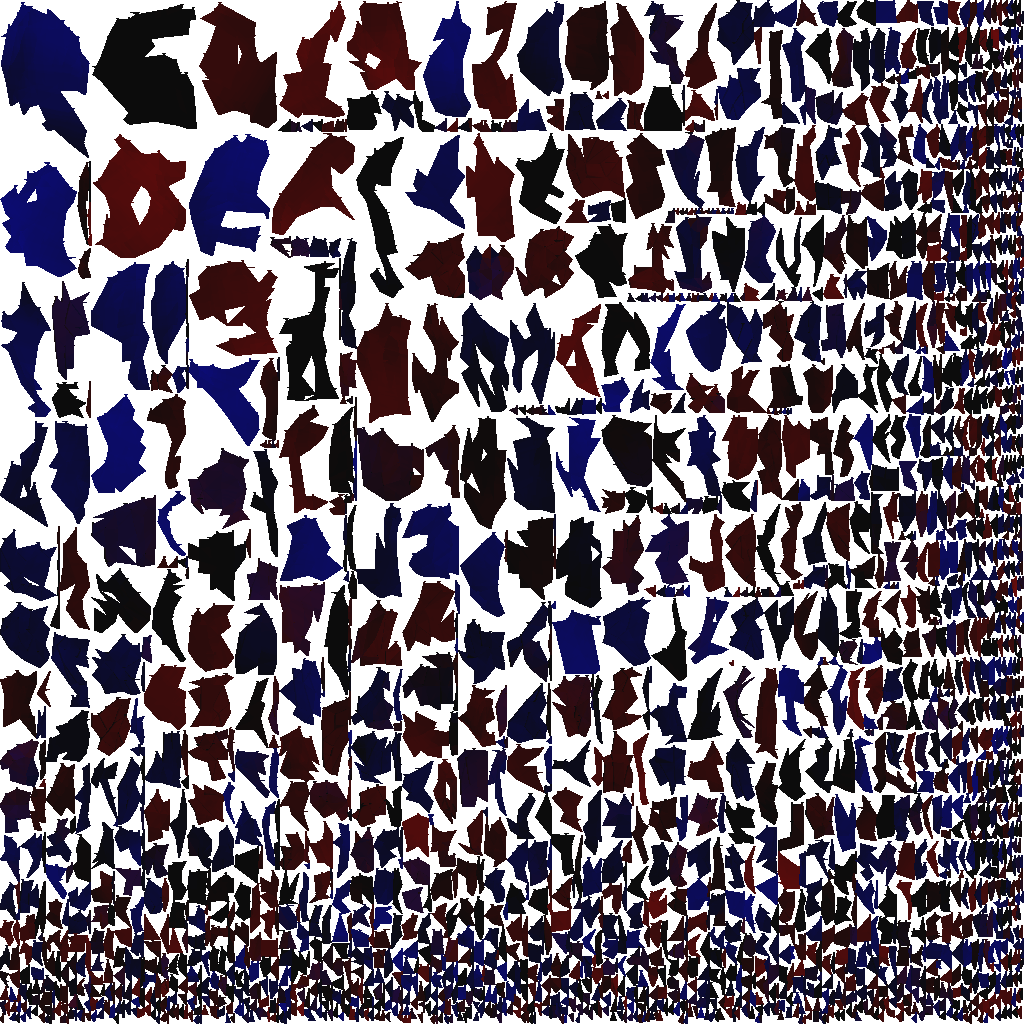
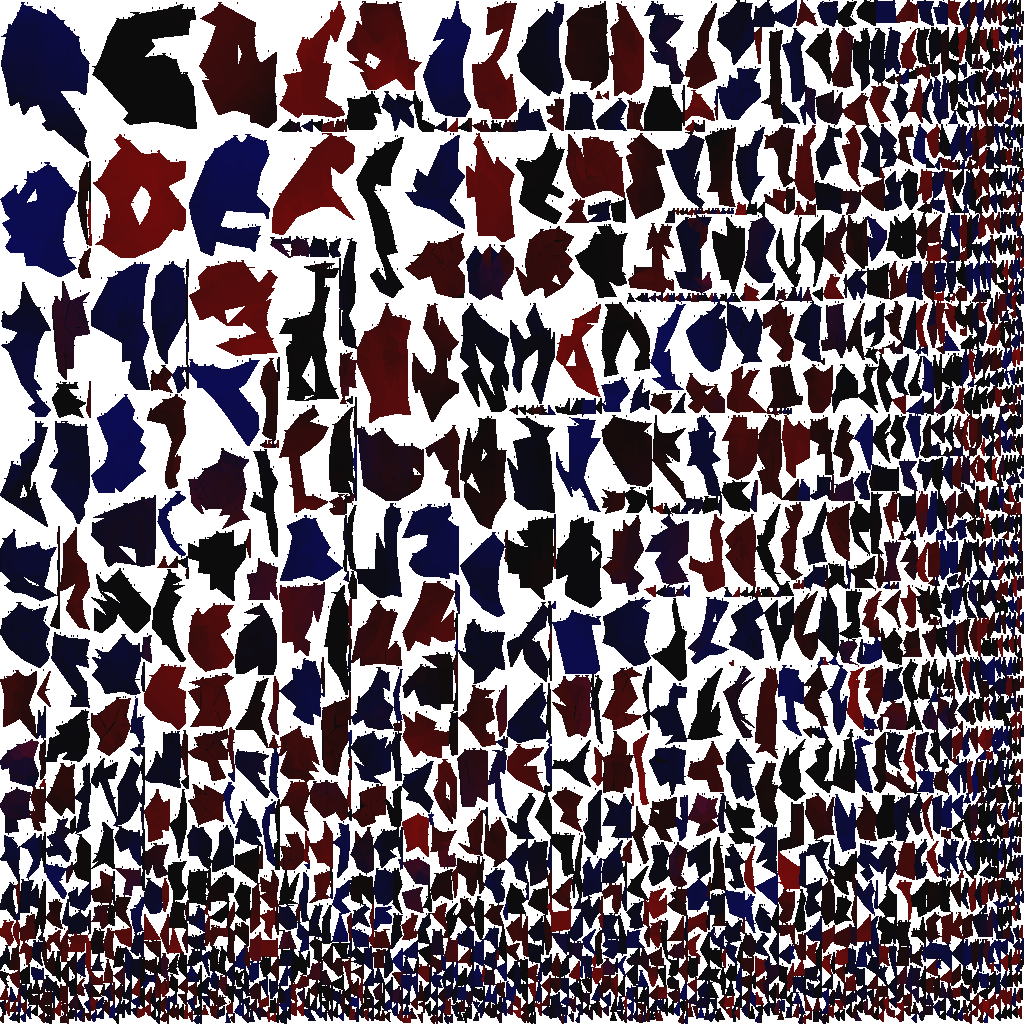
overnight bake

diff --git a/src/main.cpp b/src/main.cpp
@@ -22,7 +22,7 @@
 // 6 - some other rock
 // 7 - walls
 
-#define RESTRICT_LIGHTING 1
+#define RESTRICT_LIGHTING 0
 const int MODELS_TO_LIGHT[] = {
     2
 };
@@ -44,7 +44,7 @@ const uint64 PERMANENT_MEMORY_SIZE = MEGABYTES(1);
 const uint64 TRANSIENT_MEMORY_SIZE = MEGABYTES(32);
 
 const float32 LIGHTMAP_RESOLUTION_PER_WORLD_UNIT = 256.0f;
-const int LIGHTMAP_NUM_HEMISPHERE_SAMPLES = 128;
+const int LIGHTMAP_NUM_HEMISPHERE_SAMPLES = 256;
 const VkFilter LIGHTMAP_TEXTURE_FILTER = VK_FILTER_LINEAR;
 
 struct DebugTimer
